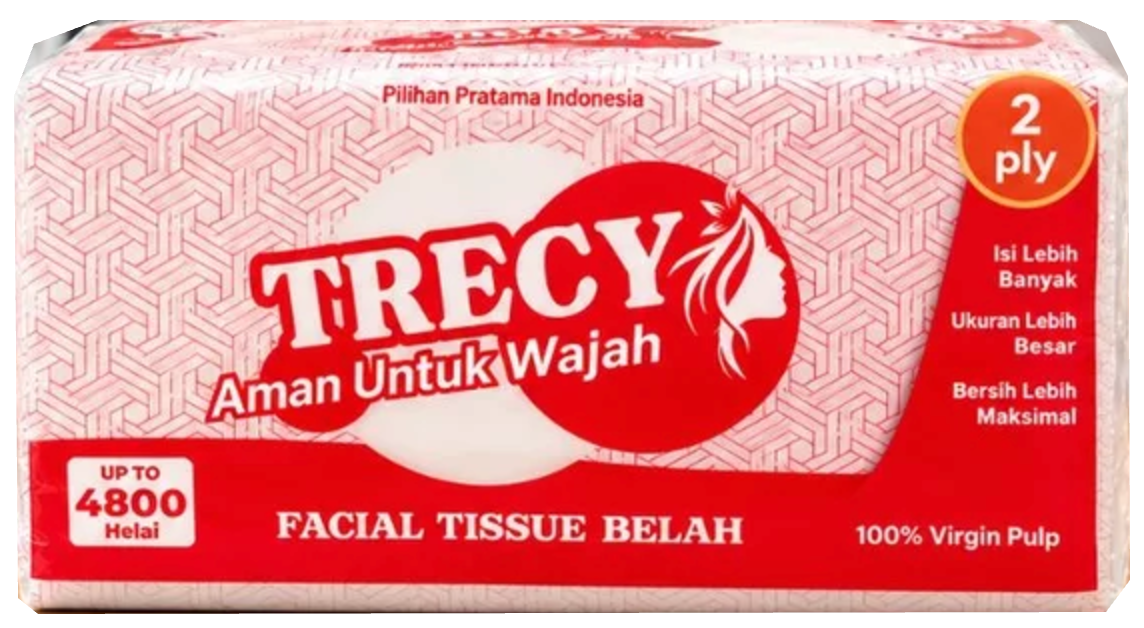
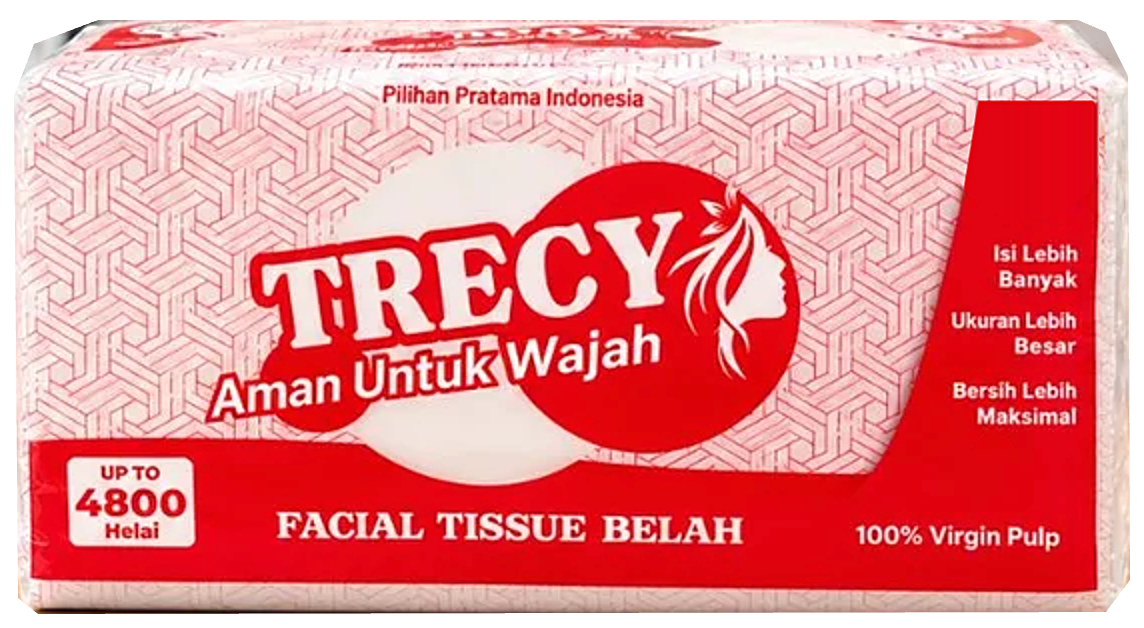
Remove the 2 ply badge from the Trecy Belah photo and sharpen it
Shrink the slideshow slightly so the low-res product photos are not
upscaled as much.

diff --git a/src/index.css b/src/index.css
@@ -177,11 +177,11 @@ p { margin: 0; }
 .feature p { font-size: 0.95rem; }
 
 /* Slideshow produk */
-.slider { position: relative; margin: 0 auto 32px; max-width: 980px; }
+.slider { position: relative; margin: 0 auto 32px; max-width: 880px; }
 .slider-stage { position: relative; aspect-ratio: 16 / 9; }
-.slide { position: absolute; inset: 6% 10% 14%; width: 80%; height: 80%; object-fit: contain; opacity: 0; transform: translateX(6%) scale(0.96); transition: opacity .7s ease, transform .9s cubic-bezier(.2, .7, .2, 1); filter: drop-shadow(0 24px 30px rgba(60, 30, 35, 0.16)); pointer-events: none; }
+.slide { position: absolute; inset: 8% 15% 14%; width: 70%; height: 78%; object-fit: contain; opacity: 0; transform: translateX(6%) scale(0.96); transition: opacity .7s ease, transform .9s cubic-bezier(.2, .7, .2, 1); filter: drop-shadow(0 24px 30px rgba(60, 30, 35, 0.16)); pointer-events: none; }
 .slide.is-active { opacity: 1; transform: none; }
-.slider-shadow { position: absolute; left: 22%; right: 22%; bottom: 7%; height: 26px; border-radius: 50%; background: radial-gradient(closest-side, rgba(60, 30, 35, 0.22), transparent); filter: blur(4px); }
+.slider-shadow { position: absolute; left: 26%; right: 26%; bottom: 7%; height: 26px; border-radius: 50%; background: radial-gradient(closest-side, rgba(60, 30, 35, 0.22), transparent); filter: blur(4px); }
 .slider-arrow { position: absolute; top: 44%; width: 48px; height: 48px; border-radius: 50%; border: 1px solid var(--line); background: #fff; color: var(--ink); font-size: 1.6rem; line-height: 1; cursor: pointer; display: grid; place-items: center; padding-bottom: 3px; box-shadow: 0 8px 20px -10px rgba(24, 24, 27, 0.25); transition: color .2s, border-color .2s, transform .2s; }
 .slider-arrow:hover { color: var(--maroon); border-color: var(--maroon); transform: scale(1.06); }
 .slider-prev { left: 0; }
